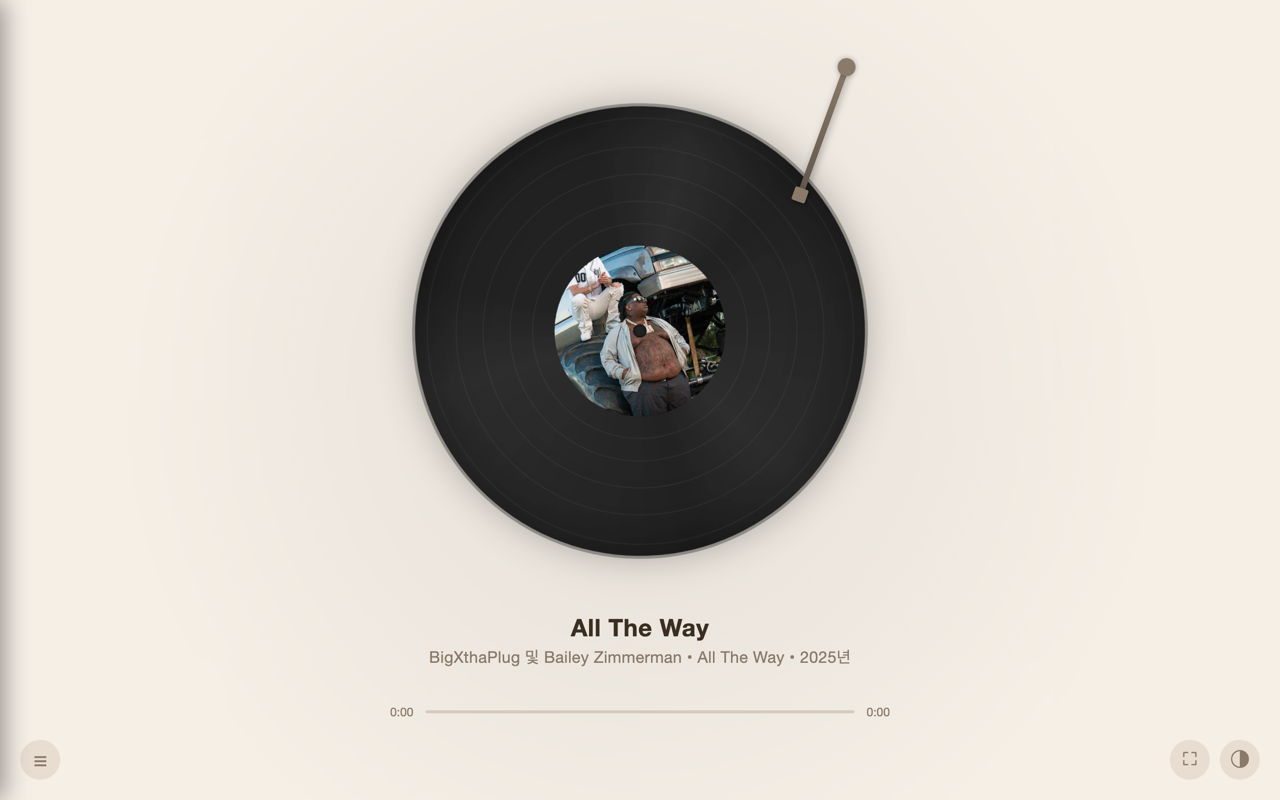
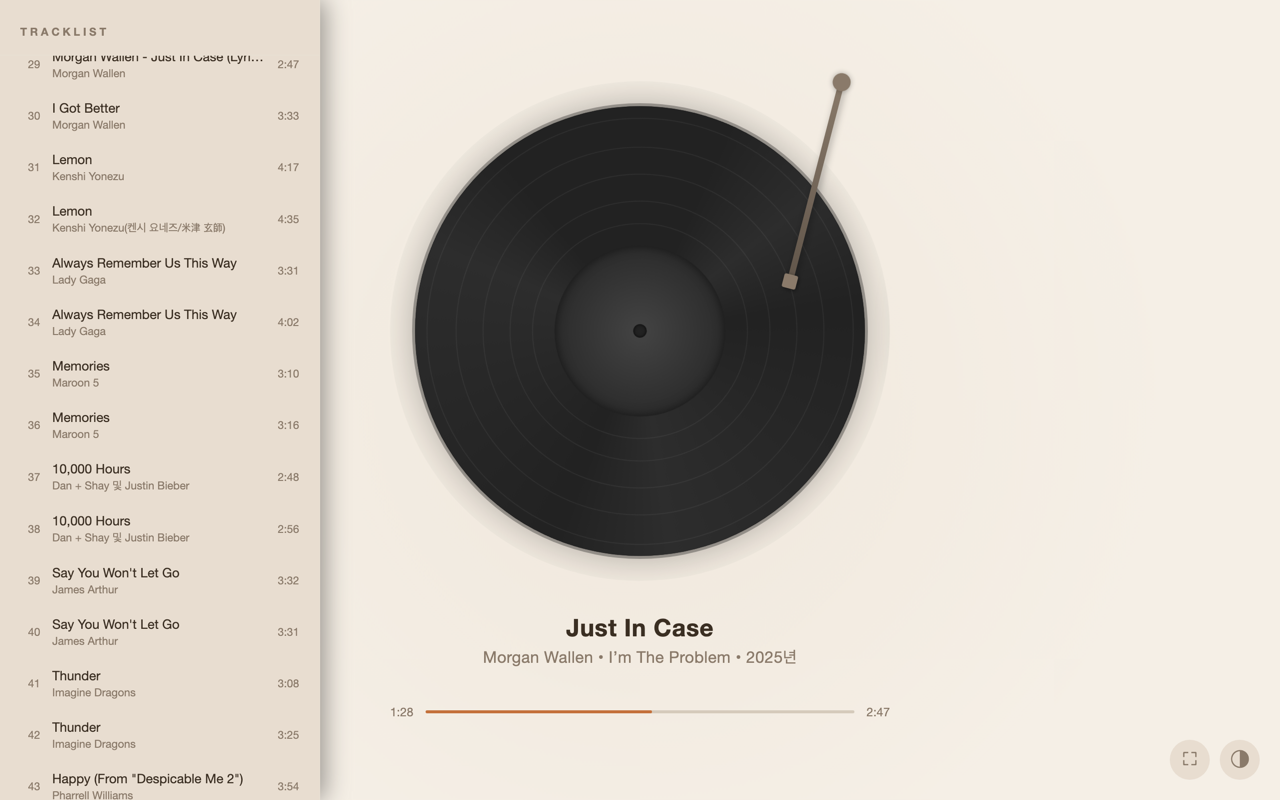
docs: update README and screenshots for v1.1.0

diff --git a/README.md b/README.md
@@ -10,6 +10,8 @@ A Chrome extension that transforms YouTube Music into a beautiful vinyl record p
 
 - Vinyl record animation with album art on the label
 - Draggable tonearm to play/pause
+- Previous/Next track with record swap animation
+- Tonearm tracks playback progress across the record
 - Tracklist panel to browse and switch songs
 - 4 themes: Dark, Warm, Cafe, Minimal
 - Fullscreen support (button or double-click)
@@ -35,6 +37,7 @@ A Chrome extension that transforms YouTube Music into a beautiful vinyl record p
 | Action | How |
 |---|---|
 | Play / Pause | Click or drag the tonearm |
+| Previous / Next track | Click ‹ › buttons on turntable sides |
 | Browse tracks | Click ☰ (bottom left) |
 | Switch song | Click a track in the tracklist |
 | Change theme | Click ◐ (bottom right) |

diff --git a/CLAUDE.md b/CLAUDE.md
@@ -112,6 +112,8 @@ How to use:
 Features:
 - Vinyl record animation with album art
 - Draggable tonearm to play/pause
+- Previous/Next track with record swap animation
+- Tonearm tracks playback progress across the record
 - Tracklist panel to browse and switch songs
 - 4 themes: Dark, Warm, Cafe, Minimal
 - Fullscreen support
